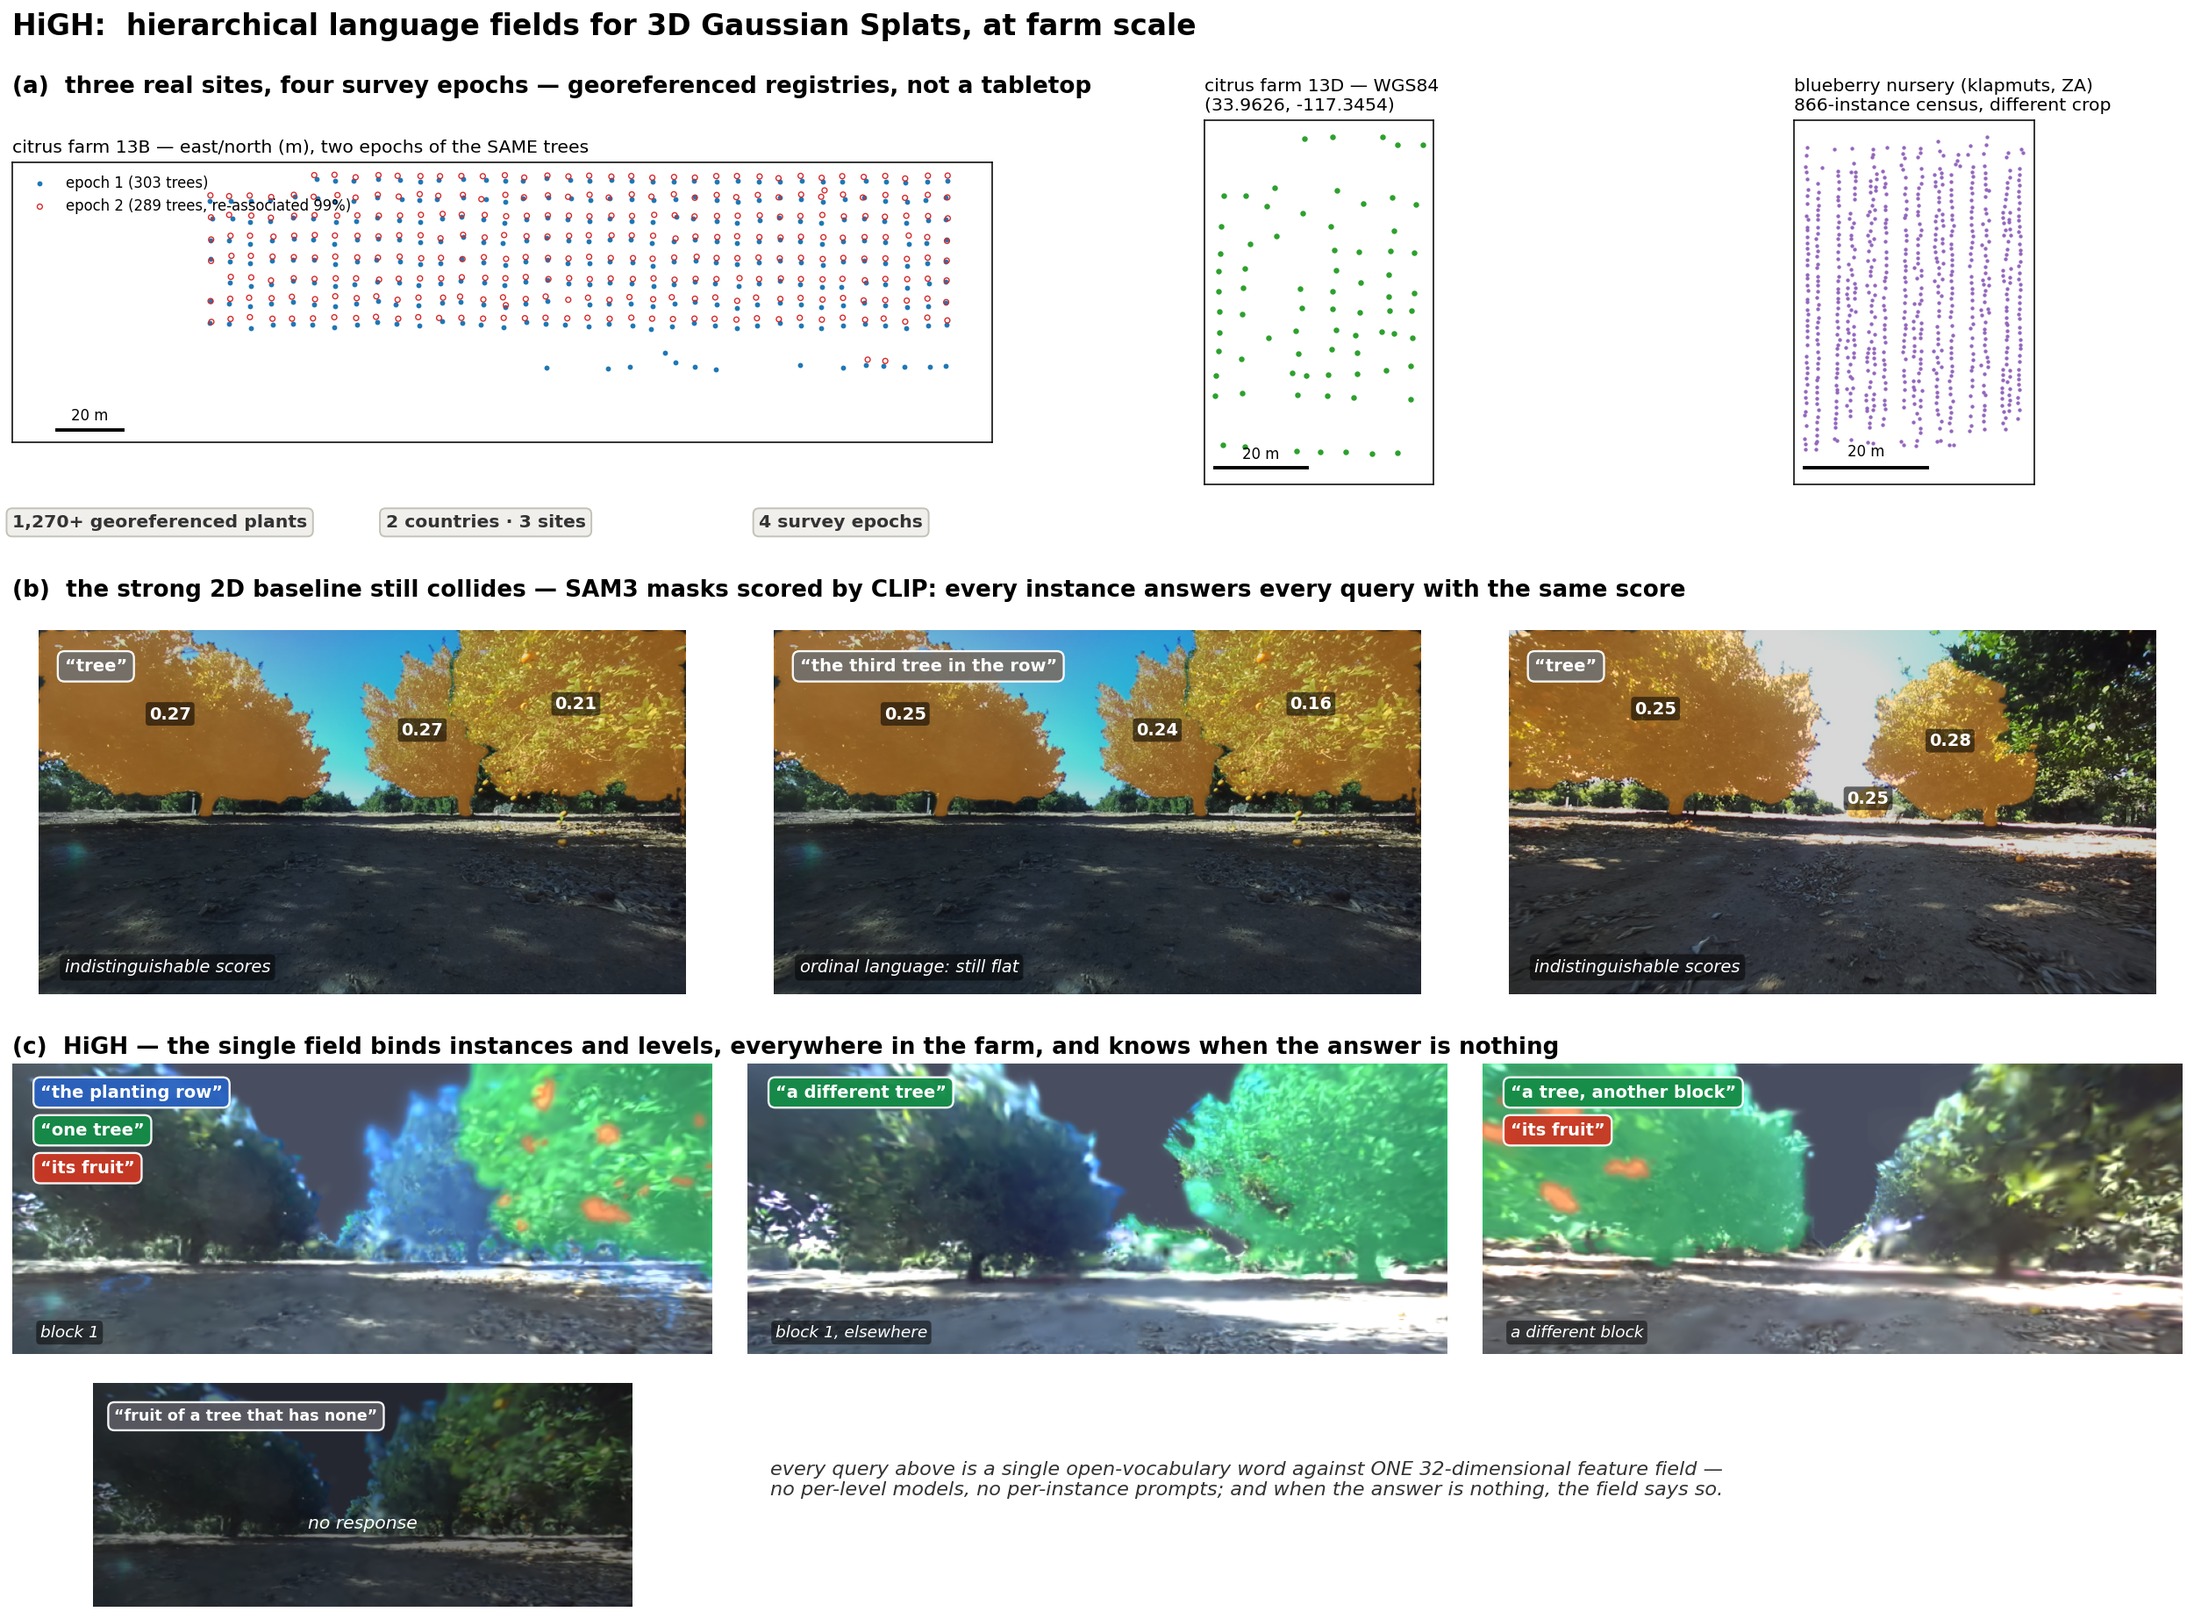
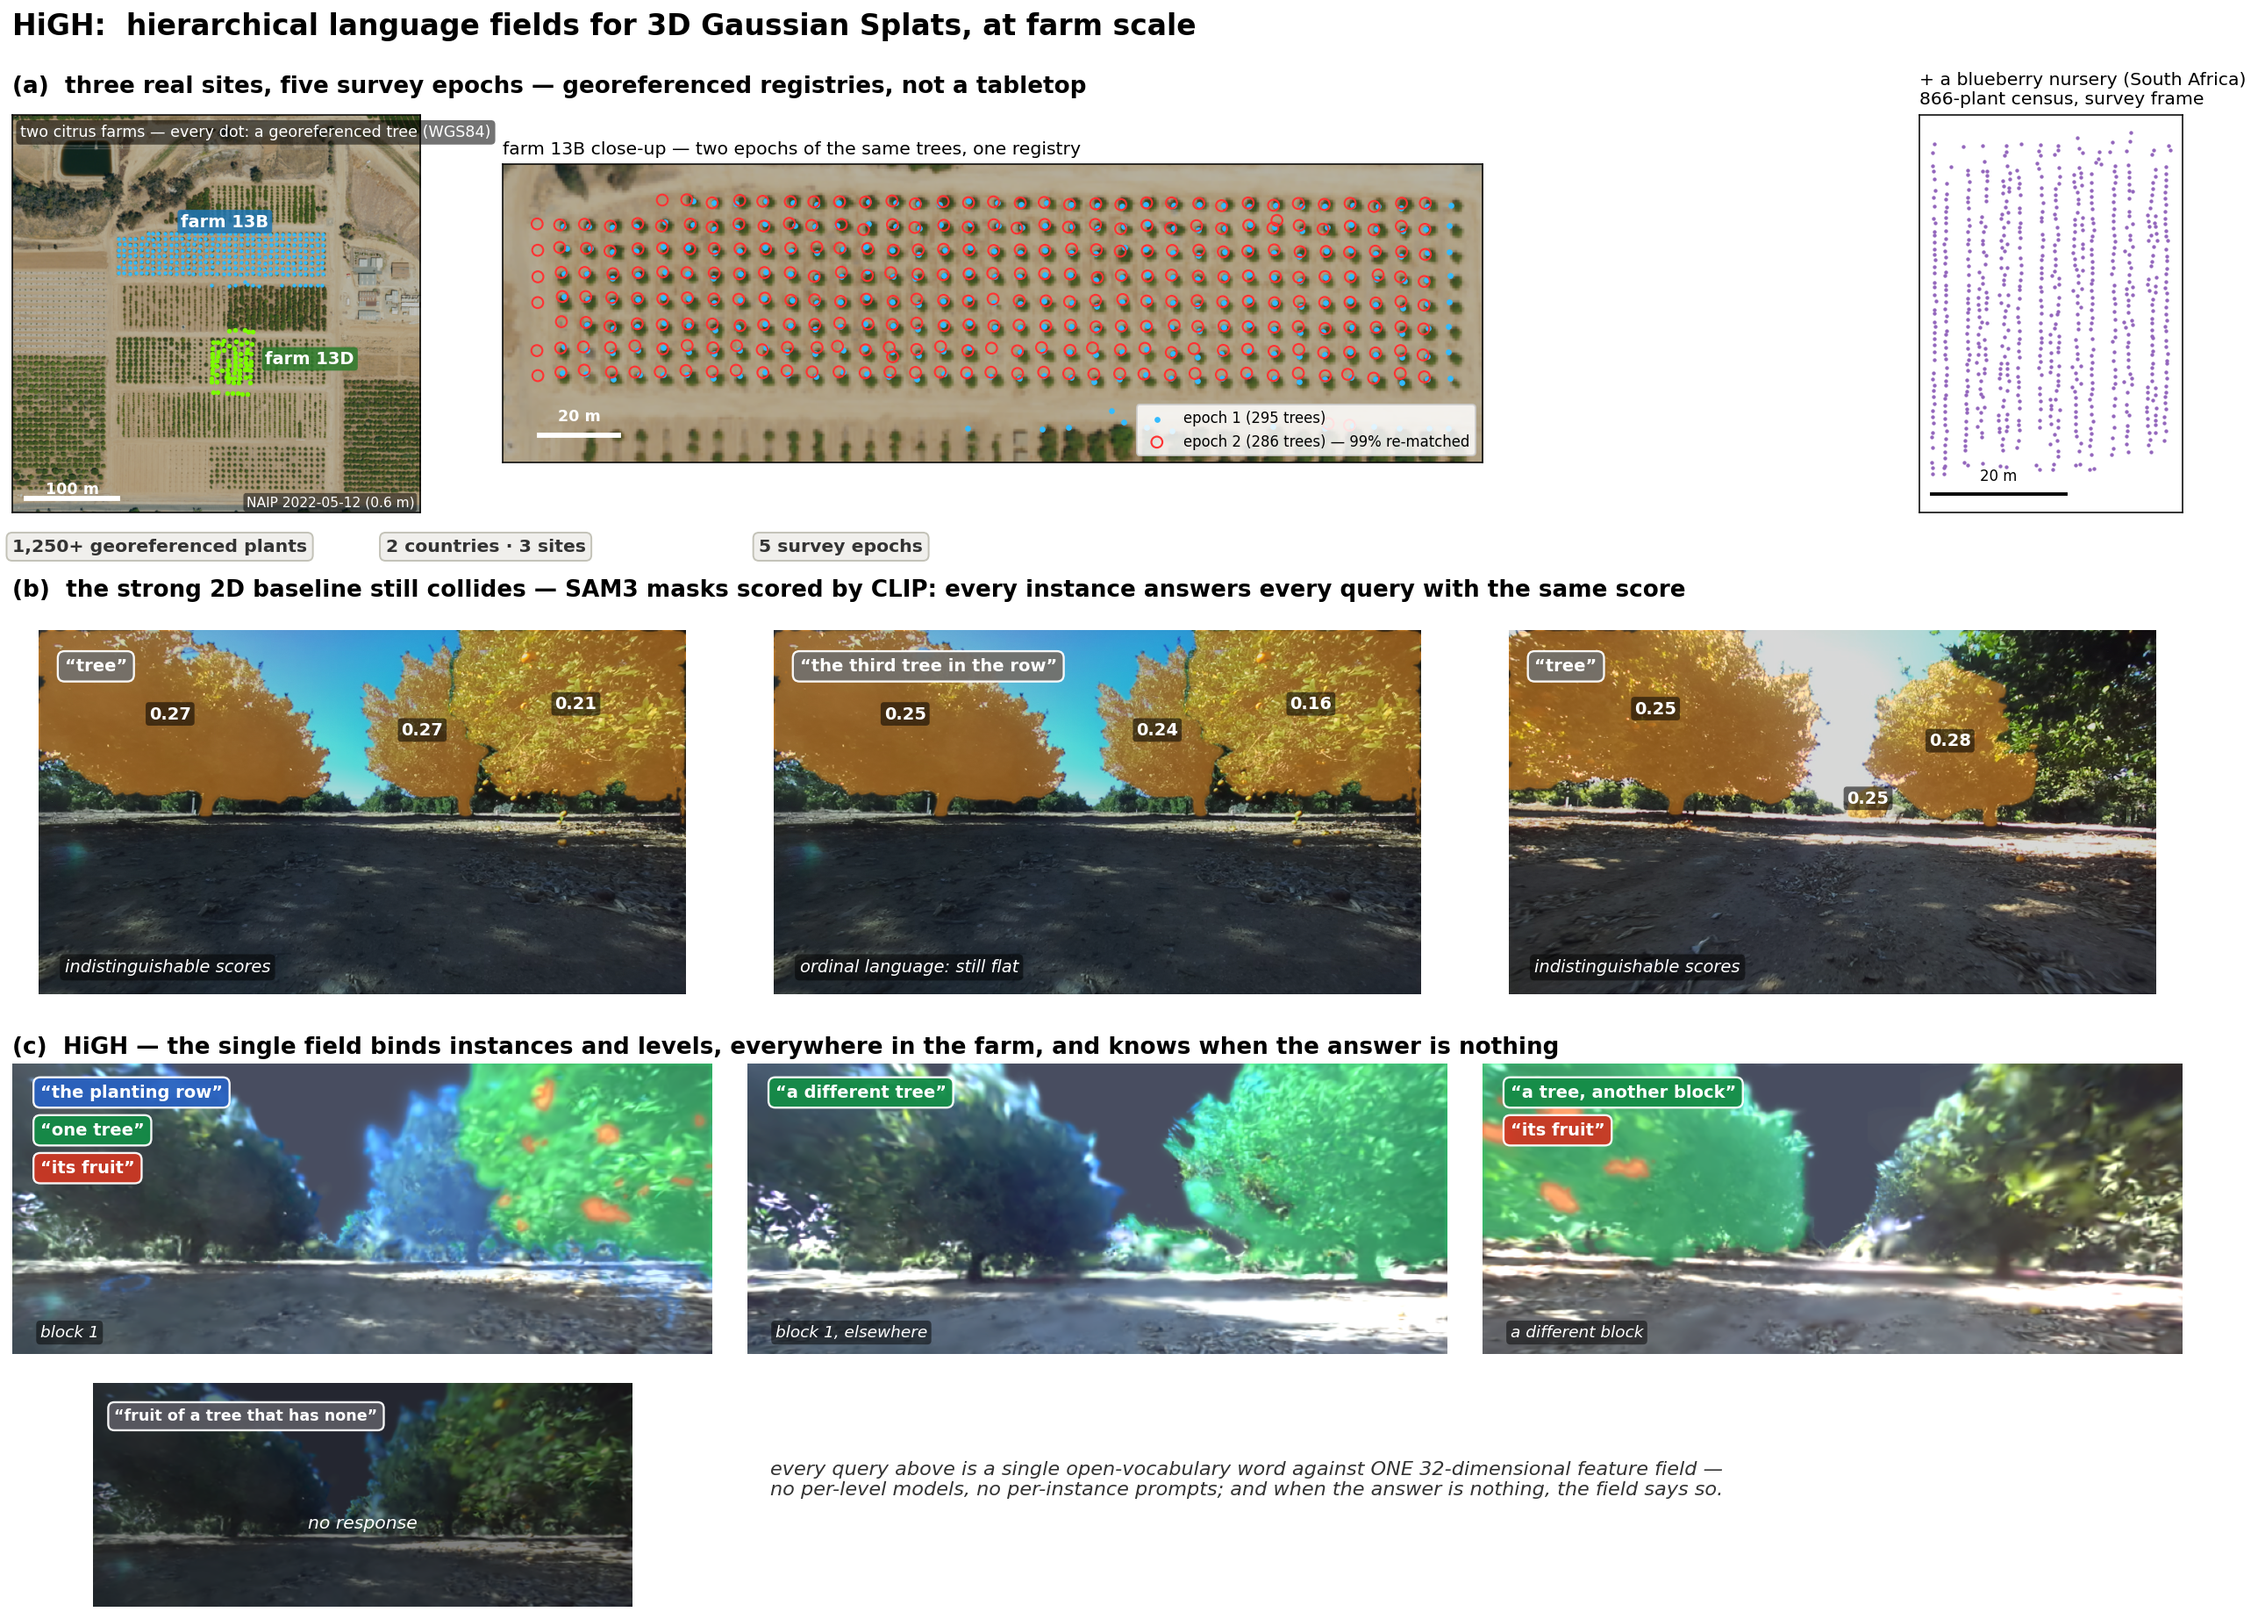
Figure 1 v5: NAIP aerial band (a) — real google-maps-style imagery, ring-on-canopy 13B close-up, corrected chips; PILLARS current

diff --git a/lab_notebook/PILLARS.md b/lab_notebook/PILLARS.md
@@ -20,7 +20,8 @@ Format (parsed by automation/build_dashboard.py):
 - [serious] The reconstruction substrate is view-overfit — train FG ~21 dB vs eval FG ~10 dB on the same block; every semantic number sits on top of this
 - [good] Vocabulary redesigned for separation (v4_1k: 1024 tree + 64 fruit, farthest-point CLIP) — swap + embedder retrain landed 2026-08-06: tree->row retrieval 100% (beats 99.03), fruit->tree 100%; max collision 0.65 vs old 0.92/1.00
 - [good] **PAPER HIGHLIGHT (Paul 2026-08-07): census-init makes the whole hierarchy queryable per-view** — single bare words segment row (IoU 0.80/0.87) ⊃ tree (0.80-0.91) ⊃ fruit (recall 0.94, absent fruit correctly empty) in kf_542 via containment; no-walk cross-level pointing 98.9/98.9 at FP 10.4%
-**Next:** fruit-weight retune post-init (overshoot 7.485 vs 7.14), replicate census-init on a second block, then serve a census-init splat on tassili.
+- [good] Paper Figure 1 exists (five iterations under Paul's art direction, 2026-08-09..12) — (a) NAIP aerial band: real 0.6 m imagery, epoch-1 dots + epoch-2 rings on individual visible canopies, 1,250+ plants / 3 sites / 5 epochs; (b) SAM3+CLIP baseline clash: flat scores, the ordinal query ranks the third tree LOWEST; (c) HiGH multi-place multi-level relevancy + no-response panel; hero drafts A/B banked (perpendicular novel views substrate-limited); source promoted to high/paper_figs/fig_teaser.py
+**Next:** serve a census-init splat on tassili; klapmuts census-init stage2 once Paul picks block length; LERF-3D trained baseline for the experiments section.
 
 ## Bateleur — top-down farm state: instances and rows
 **Q:** Can a trustworthy PLANT REGISTRY (instances, rows, counts) be built from noisy per-frame detections + LiDAR, and transfer across sites?
@@ -40,14 +41,15 @@ Format (parsed by automation/build_dashboard.py):
 - [good] **Dec-2025 mcap ingest UNBLOCKED (2026-08-09)** — rosbags AnyReader opens the mcap natively and husky_bag_to_monolithic was ALREADY WRITTEN for the A300 topics (Paul's call: no new scripts). Round-trip proven; full ZED stack incl. registered depth; LiDAR is PointCloud2 (July's PointCloud fear was wrong); INS+ZED odom agree to 1.7% over a 44 m row pass at 0.78 m/s; INS z drifts 3.8 m (LiDAR owns the vertical)
 - [good] Per-epoch prompts are a SCENE FACT (scene.json prompts.dec_2025) — Dec bags answer to 'plant pot'/'grow bag' (12 dets) and NOT 'sack' (0); Jan is the mirror (sacks yes, berries none). Berry association measured: berry-in-PLANT containment 92.9% px vs pot-column 28.8% — recipe = berry ⊂ plant ⊂ (pot adjacency | 3D census snap)
 - [good] Dec SAM3 ledgers banked: 290/290 frames (plant pot / plant / berry) in sam3_ledger_v0 — the ingest-independent half of the Dec fruit level
+- [good] DEC TOP-DOWN REGISTRY (2026-08-09) — SAM3 ledgers × native ZED depth × odom fused to world coordinates: 199 pot clusters (166 solid vs ~176 expected) + 299 berry observations; berry mass sits in the 5–10 m stretch (real non-uniform fruiting), fallen ground berries auto-rejected by the plant gate
 - [good] Absolute WGS84 association on citrus — 01/03/04 associated at 99% match, latency calibrated (+300 ms)
 - [good] Systematic 1.4 m common-mode shift found and corroborated two ways — correcting it took 219 → 272 pairs at a TIGHTER gate, which is the semantic pose-graph lead
 - [good] Ledger v0 — 677 observations / 402 canonical trees / 275 multi-epoch
 - [good] Dec-2025 A300 routing settled — the bag carries 3D LiDAR + INS odom + ZED stereo, so it goes the LIO/odometry route; COLMAP would discard the LiDAR and return scale-free poses
 - [good] Blueberries are detectable — SAM3 image mode on dec_0144 gives 58 masks for 'berry' at fill 0.76, geometry close to citrus oranges, so the in-tree recipe should transfer; qualified multi-word prompts return nothing
-- [serious] Dec-2025 ingest is net-new — ROS2 mcap, sensor_msgs/PointCloud (not PointCloud2), no raw IMU topic, A300 lidar→camera extrinsics unknown
+- [warning] A300 lidar→camera extrinsics still unmeasured — needed for the LiDAR-init path on Dec blocks (the rest of the "net-new ingest" fear retired 2026-08-09: mcap reads natively, cloud IS PointCloud2, existing husky tool wrote the monolithics)
 - [warning] The ledger compares a structure PROXY, not phenology
-**Next:** build the mcap reader (images + INS-odom poses + cloud) → kf20cm dump → blocks → LiDAR init; DINOv2 Dec→April retrieval pre-flight still unrun.
+**Next:** kf20cm keyframe cut from odom (~220 kf) → blocks → LiDAR init → census snap → berry-in-plant supervision (ledgers banked, ~15 px plant-mask dilation in the compile); DINOv2 Dec→April retrieval pre-flight still unrun.
 
 ## Adinkra — natural-language query over the twin
 **Q:** Can plain language select geometry — "the fruiting trees in row 7" — through the hierarchical embedding?

diff --git a/lab_notebook/2026-08.md b/lab_notebook/2026-08.md
@@ -1532,3 +1532,24 @@ second frame 0.28/0.25/0.25;
 kf_548 tree 73, block_003 kf_1203 tree+fruit) + no-response panel.
 Tool scratchpad paper_fig1_v4.py (+ sam3_tree_masks_fig1.npz precompute).
 AUTONOMY: runs 5, clean 4, interventions 0, debugged 2 (ledger nesting, layout)
+
+## 2026-08-12 (2) — FIGURE 1 v5: NAIP aerial band (a) — "gps means google maps image"
+figs/draft_fig1_teaser_v4.png (supersedes the scatter-map band in place) —
+band (a) rebuilt on a real aerial: NAIP 2022-05-12 (0.6 m, public domain —
+paper-safe vs Google tiles), scene ca_m_3311706_nw_11_060, EPSG:26911,
+fetched via Planetary Computer; ll->px = rasterio warp + affine inverse
+(assets: /home/paperspace/data/paper_fig_assets/naip_bothfarms.npz).
+Panels: (1) both-farms aerial, 13B blue dots + 13D green dots on visible
+plantings, in-image caption, 100 m bar, NAIP credit; (2) farm-13B CLOSE-UP
+crop — epoch-1 dots + epoch-2 rings land on individual visible canopies
+("two epochs of the same trees, one registry", legend counts live from
+ledger: 295/286, 99% re-matched); (3) klapmuts 866-census survey-frame
+panel. Chips corrected: 1,250+ plants (303∪ + 85 + 866), 5 survey epochs
+(13B x2, 13D, klapmuts Jan + Dec — Dec now ingested).
+Layout fix: near-square imshow keeps axes height (title collided with band
+header; chips overlapped image) -> panels 0.72–0.933 + set_anchor W/E,
+aerial title moved in-image, chips to 0.699.
+Script promoted: high/paper_figs/fig_teaser.py (runs from durable asset
+paths, verified end-to-end). Render: block_001 stage2_censusinit_fw2 +
+v3vocab1k, scores unchanged.
+AUTONOMY: runs 3, clean 3, interventions 0, debugged 1 (aspect/anchor layout)
